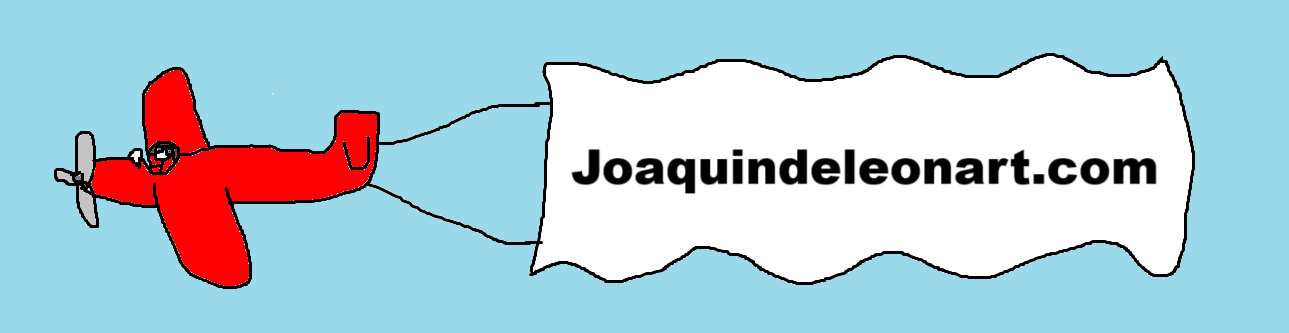
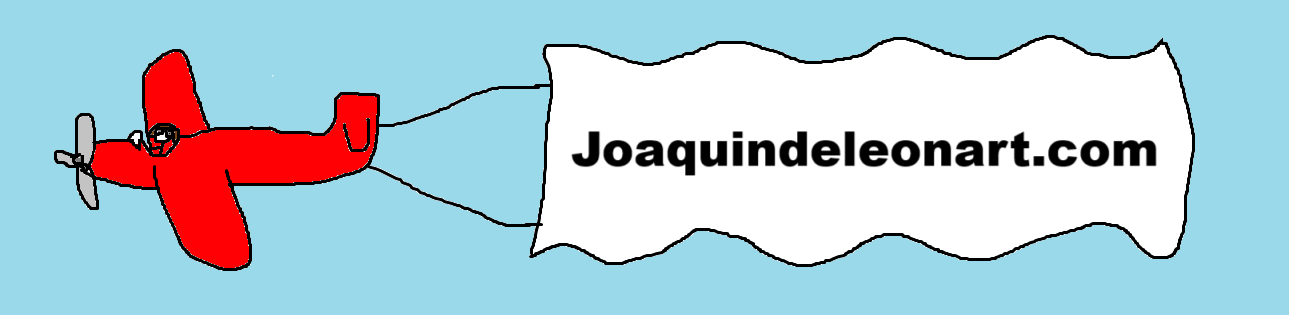
updated plane header
plane header is now animated gif

diff --git a/headerFooterManager.js b/headerFooterManager.js
@@ -3,7 +3,7 @@ class SpecialHeader extends HTMLElement{
         this.innerHTML = `
         <header>
           <a href="index.html">
-            <img src="PLANE_HEADER.png" alt="plane banner" class="plane-header">
+            <img src="plane_header_animation.gif" alt="plane banner" class="plane-header">
           </a>    
         </header>
         `

diff --git a/mystyle.css b/mystyle.css
@@ -30,7 +30,7 @@ body{
 /* Desktop Adjustments */
 @media screen and (min-width:1280px) {
     .plane-header{
-        width: 60%; 
+        width: 55%; 
         height: auto;    
     }
     body{

diff --git a/contact.html b/contact.html
@@ -46,10 +46,6 @@
       </div>
     </div>
 
-
-
-
-
     <script src="headerFooterManager.js"></script>    
   </body>
 </html>
